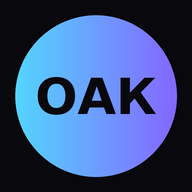
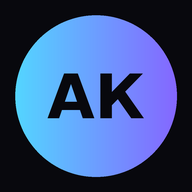
Антикоагулянты: значок АК вместо ОАК
Claude-Session: https://claude.ai/code/session_01F9aSP2xV2apFBKUNDiB4bJ

Changed region(s): [[0.1875, 0.375, 0.8125, 0.625]]

diff --git a/oac-m3v8kp-sw.js b/oac-m3v8kp-sw.js
@@ -1,4 +1,4 @@
-const CACHE='oac-m3v8kp-v8';
+const CACHE='oac-m3v8kp-v9';
 const CORE=['/oac-m3v8kp.html','/oac-m3v8kp.webmanifest','/oac-icon-192.png','/oac-icon-512.png','/oac-apple-icon.png'];
 self.addEventListener('install',e=>{e.waitUntil(caches.open(CACHE).then(c=>c.addAll(CORE)).then(()=>self.skipWaiting()));});
 self.addEventListener('activate',e=>{e.waitUntil(caches.keys().then(k=>Promise.all(k.filter(x=>x.startsWith('oac-m3v8kp-')&&x!==CACHE).map(x=>caches.delete(x)))).then(()=>self.clients.claim()));});
